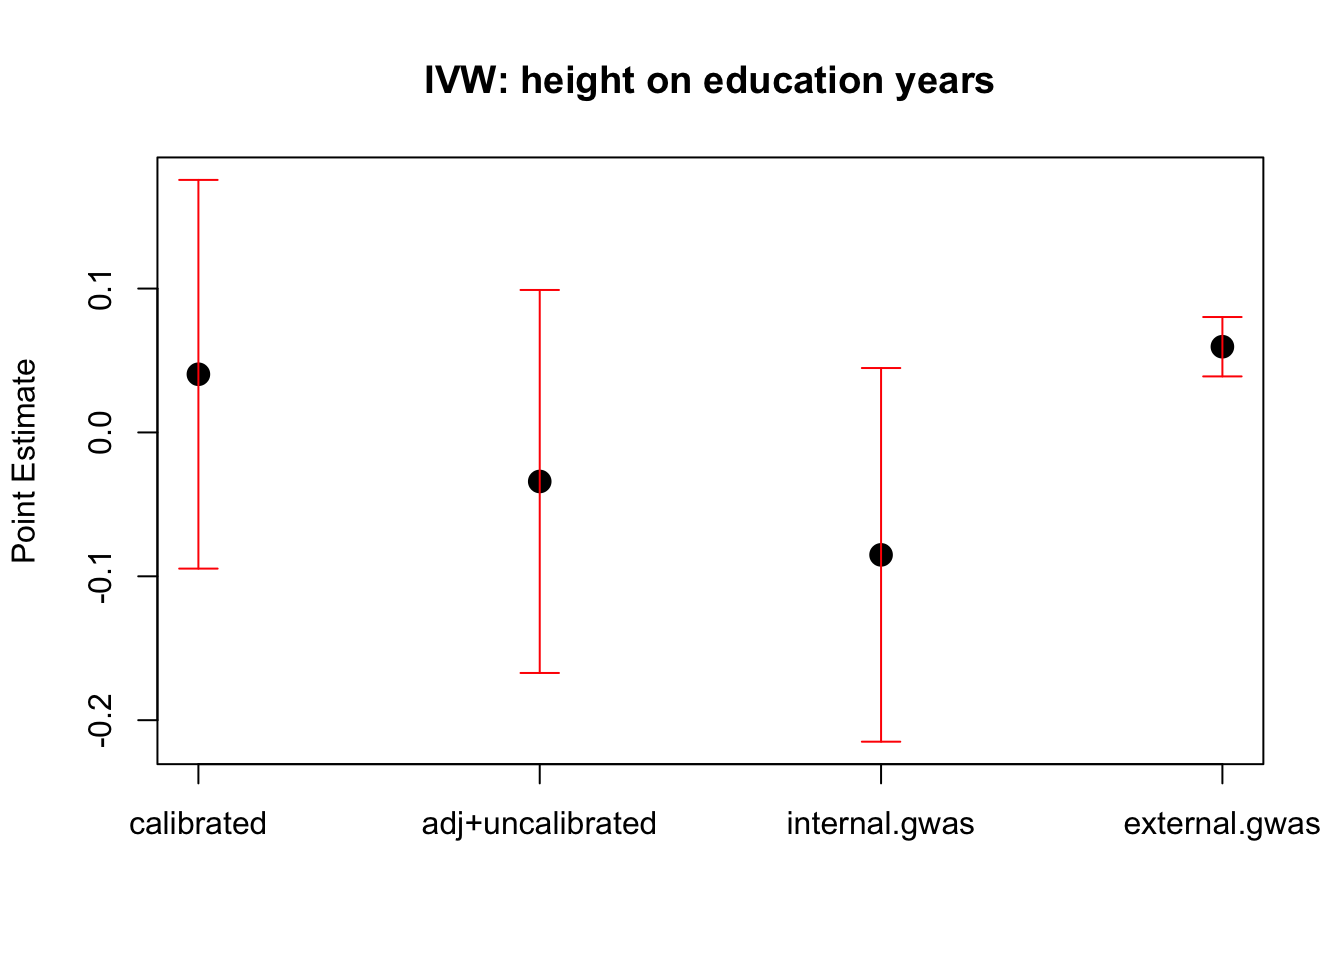
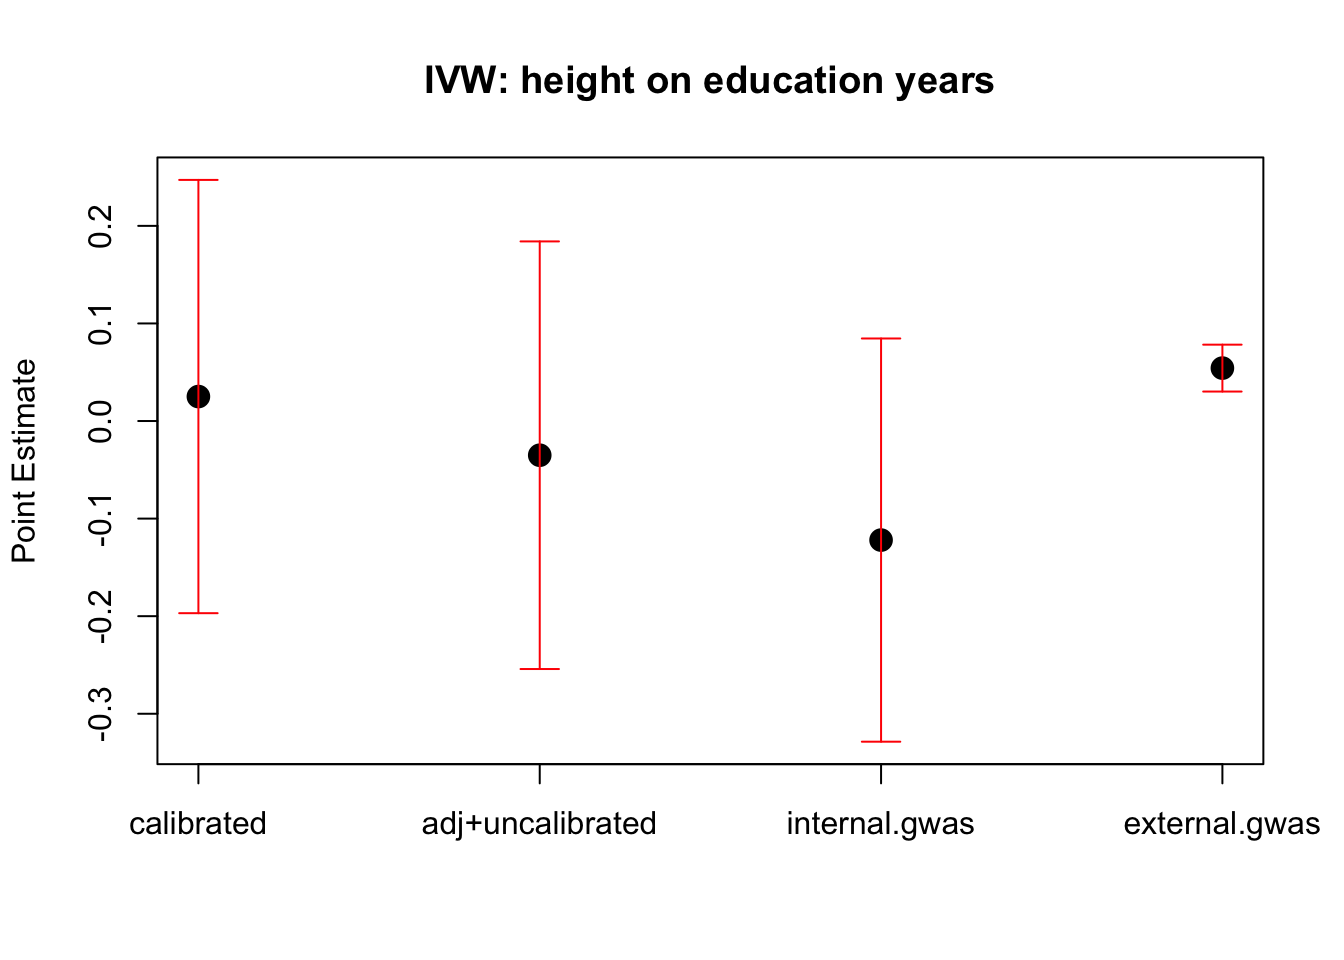
Build site.

diff --git a/docs/ukb_mr_height_202407.html b/docs/ukb_mr_height_202407.html
@@ -475,16 +475,16 @@ This reproducible <a href="http://rmarkdown.rstudio.com">R Markdown</a> analysis
 <div class="panel panel-default">
 <div class="panel-heading">
 <p class="panel-title">
-<a data-toggle="collapse" data-parent="#workflowr-checks" href="#strongRepositoryversionstrongahrefhttpsgithubcomyunqiyang0215simulationcalibratedmrtree08fc47d2a2930da24472e2579f70a1a3d7e0aeaftargetblank08fc47da"> <span class="glyphicon glyphicon-ok text-success" aria-hidden="true"></span> <strong>Repository version:</strong> <a href="https://github.com/yunqiyang0215/simulation-calibrated-mr/tree/08fc47d2a2930da24472e2579f70a1a3d7e0aeaf" target="_blank">08fc47d</a> </a>
+<a data-toggle="collapse" data-parent="#workflowr-checks" href="#strongRepositoryversionstrongahrefhttpsgithubcomyunqiyang0215simulationcalibratedmrtree87ce4f66b6390ae8c19620d5463def5df700225ctargetblank87ce4f6a"> <span class="glyphicon glyphicon-ok text-success" aria-hidden="true"></span> <strong>Repository version:</strong> <a href="https://github.com/yunqiyang0215/simulation-calibrated-mr/tree/87ce4f66b6390ae8c19620d5463def5df700225c" target="_blank">87ce4f6</a> </a>
 </p>
 </div>
[2 lines of base64/hex data omitted]
 <div class="panel-body">
 <p>
 Great! You are using Git for version control. Tracking code development and connecting the code version to the results is critical for reproducibility.
 </p>
 <p>
-The results in this page were generated with repository version <a href="https://github.com/yunqiyang0215/simulation-calibrated-mr/tree/08fc47d2a2930da24472e2579f70a1a3d7e0aeaf" target="_blank">08fc47d</a>. See the <em>Past versions</em> tab to see a history of the changes made to the R Markdown and HTML files.
+The results in this page were generated with repository version <a href="https://github.com/yunqiyang0215/simulation-calibrated-mr/tree/87ce4f66b6390ae8c19620d5463def5df700225c" target="_blank">87ce4f6</a>. See the <em>Past versions</em> tab to see a history of the changes made to the R Markdown and HTML files.
 </p>
 <p>
 Note that you need to be careful to ensure that all relevant files for the analysis have been committed to Git prior to generating the results (you can use <code>wflow_publish</code> or <code>wflow_git_commit</code>). workflowr only checks the R Markdown file, but you know if there are other scripts or data files that it depends on. Below is the status of the Git repository when the results were generated:
@@ -532,6 +532,40 @@ Message
 </tr>
 </thead>
 <tbody>
+<tr>
+<td>
+Rmd
+</td>
+<td>
+<a href="https://github.com/yunqiyang0215/simulation-calibrated-mr/blob/87ce4f66b6390ae8c19620d5463def5df700225c/analysis/ukb_mr_height_202407.Rmd" target="_blank">87ce4f6</a>
+</td>
+<td>
+yunqiyang0215
+</td>
+<td>
+2024-08-06
+</td>
+<td>
+wflow_publish("analysis/ukb_mr_height_202407.Rmd")
+</td>
+</tr>
+<tr>
+<td>
+html
+</td>
+<td>
+<a href="https://rawcdn.githack.com/yunqiyang0215/simulation-calibrated-mr/edcc3ab3c2d1a54a22e31359af89437a9d945c9b/docs/ukb_mr_height_202407.html" target="_blank">edcc3ab</a>
+</td>
+<td>
+yunqiyang0215
+</td>
+<td>
+2024-08-06
+</td>
+<td>
+Build site.
+</td>
+</tr>
 <tr>
 <td>
 Rmd
@@ -643,8 +677,9 @@ sum(dat.exp$variant != dat.out$variant)</code></pre>
 <pre><code>[1] 0</code></pre>
 <div id="ivw" class="section level4">
 <h4>1. IVW</h4>
-<pre class="r"><code>dat1 = dat.exp
-dat2 = dat.out</code></pre>
+<pre class="r"><code>indx = which(dat.exp$P &lt; 1e-8)
+dat1 = dat.exp[indx, ]
+dat2 = dat.out[indx, ]</code></pre>
 <pre class="r"><code>res.mr = matrix(NA, ncol = 4, nrow = 2)
 colnames(res.mr) = c(&quot;calibrated&quot;, &quot;adj+uncalibrated&quot;, &quot;internal.gwas&quot;, &quot;external.gwas&quot;)
 rownames(res.mr) = c(&quot;point.est&quot;, &quot;std&quot;)
@@ -685,8 +720,8 @@ mr = mr_ivw(MRInput)
 res.mr[, 4] = c(mr@Estimate, mr@StdError)
 res.mr</code></pre>
 <pre><code>          calibrated adj+uncalibrated internal.gwas external.gwas
-point.est 0.04043747      -0.03407905   -0.08509076    0.05958143
-std       0.06891892       0.06790924    0.06625219    0.01052908</code></pre>
+point.est 0.02508198       -0.0350472    -0.1220191    0.05423174
+std       0.11327235        0.1117931     0.1054122    0.01225769</code></pre>
 <pre class="r"><code>labels &lt;- c(&#39;calibrated&#39;, &#39;adj+uncalibrated&#39;, &#39;internal.gwas&#39;, &#39;external.gwas&#39;)
 point_est &lt;- res.mr[1, ]
 error_bars &lt;- 1.96 * res.mr[2, ]
@@ -768,8 +803,8 @@ stderr = mr$beta.se
 res.mr[, 4] = c(point_est, stderr)
 res.mr</code></pre>
 <pre><code>          calibrated adj+uncalibrated internal.gwas external.gwas
-point.est  2.3629973       -0.8542164    -0.5106406   0.062693017
-std        0.5461075        0.3493194     0.5251644   0.007832986</code></pre>
+point.est  0.1302393       -0.1439815    -0.2743269   0.055319431
+std        0.2565071        0.4149058     0.3562649   0.008401938</code></pre>
 <pre class="r"><code>labels &lt;- c(&#39;calibrated&#39;, &#39;adj+uncalibrated&#39;, &#39;internal.gwas&#39;, &#39;external.gwas&#39;)
 point_est &lt;- res.mr[1, ]
 error_bars &lt;- 1.96 * res.mr[2, ]
@@ -802,6 +837,17 @@ Date
 </tr>
 </thead>
 <tbody>
+<tr>
+<td>
+<a href="https://github.com/yunqiyang0215/simulation-calibrated-mr/blob/edcc3ab3c2d1a54a22e31359af89437a9d945c9b/docs/figure/ukb_mr_height_202407.Rmd/unnamed-chunk-11-1.png" target="_blank">edcc3ab</a>
+</td>
+<td>
+yunqiyang0215
+</td>
+<td>
+2024-08-06
+</td>
+</tr>
 <tr>
 <td>
 <a href="https://github.com/yunqiyang0215/simulation-calibrated-mr/blob/25f6ae12ec650ed8521dfd596f7d3f3586814b64/docs/figure/ukb_mr_height_202407.Rmd/unnamed-chunk-11-1.png" target="_blank">25f6ae1</a>
